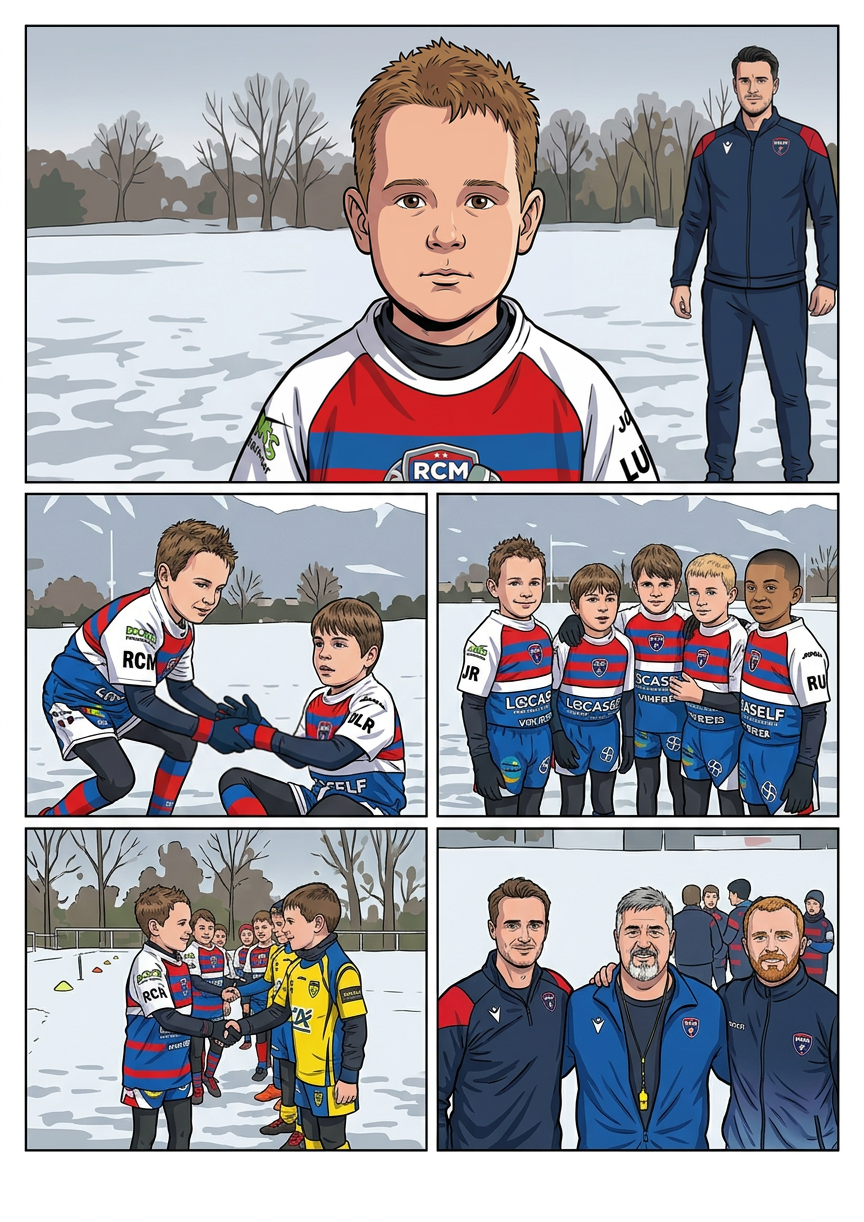
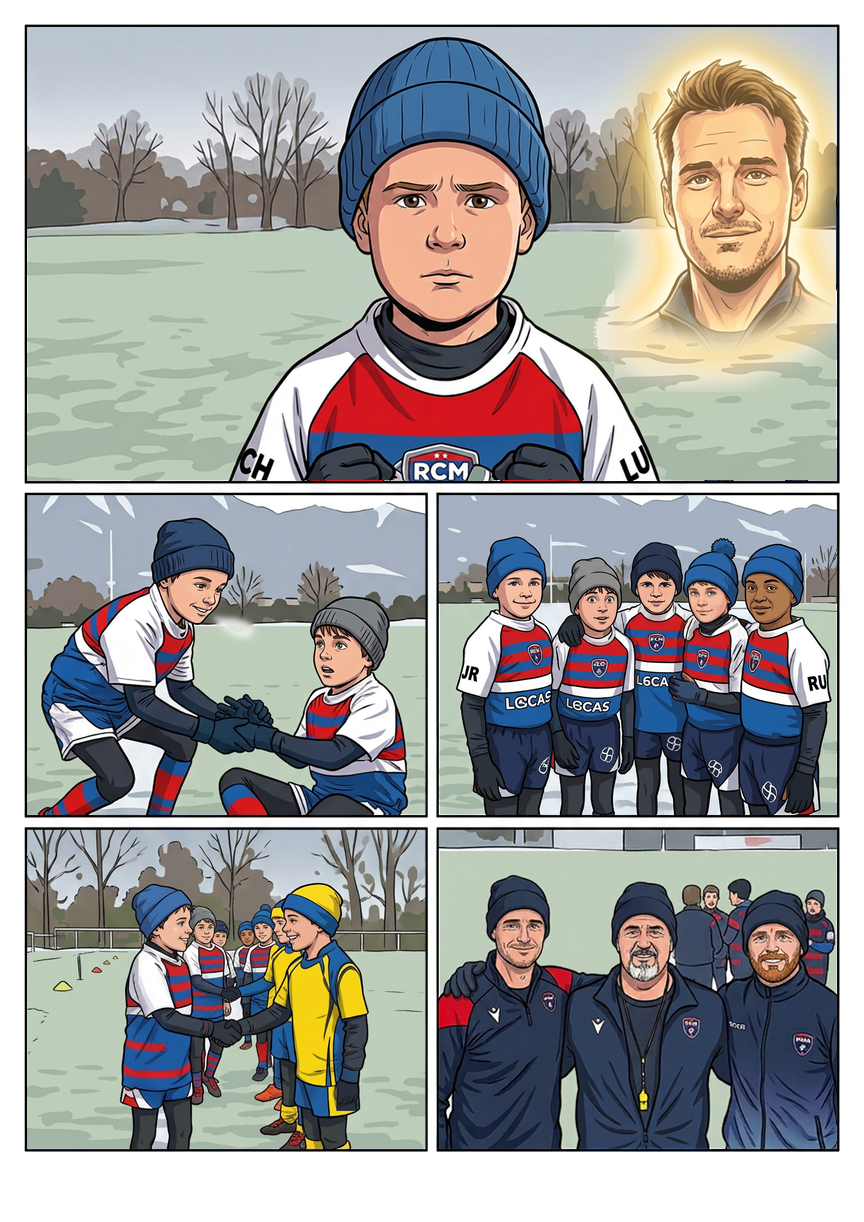
Reprendre les cinq cases de réconciliation de la planche 21

diff --git a/Planches-dessin/validation/REVUE-COUVERTURE.md b/Planches-dessin/validation/REVUE-COUVERTURE.md
@@ -21,13 +21,13 @@ Les huit recadrages exacts sont dans `revue-couverture/<Prénom>-couverture.png`
 |---|---:|
 | Planches vues en ensemble | 30 |
 | Vignettes réellement inventoriées | 153 |
-| Premières reprises intégrées, encore à relire | 105 |
+| Premières reprises intégrées, encore à relire | 110 |
 | Corrections seulement partielles, à poursuivre | 0 |
 | Contrôles sans retouche, encore à relire | 1 |
-| Autres vignettes restant à contrôler individuellement | 47 |
+| Autres vignettes restant à contrôler individuellement | 42 |
 | Validations définitives de style et ressemblance | **0** |
 
-Les 105 vignettes ayant reçu une intervention ne sont pas 105 vignettes définitivement conformes. Le reste de la revue demandée n’est pas terminé. Le manifeste `REVUE-COUVERTURE.json` conserve une entrée et un état explicite pour chacune des 153 vignettes.
+Les 110 vignettes ayant reçu une intervention ne sont pas 110 vignettes définitivement conformes. Le reste de la revue demandée n’est pas terminé. Le manifeste `REVUE-COUVERTURE.json` conserve une entrée et un état explicite pour chacune des 153 vignettes.
 
 ## Première livraison : 26/3 et 26/6
 
@@ -406,6 +406,28 @@ Preuves : `revue-couverture/lot-x/20-AVANT-APRES.jpg`, cinq masques des intérie
 **Réserves de relecture transversale (aucune validation définitive) :** âge et proportions des enfants sous bonnets, teintes des ombres sur Nolann, noir des thermiques et formes des gants, densité de tricot variable des bonnets ; motif exact des maillots/sponsors/écussons à harmoniser graphiquement sur la couverture (notamment les petites lettres variables et les modèles de bandes en 19–20). Vérifier les contacts tête/bras/jambes des deux plaquages de 20/1 et du défenseur largement masqué en 20/4, ainsi que les articulations et la lecture spatiale des lignes entre les deux matchs. La touche ajoutée en 20/1 est un marqueur de terrain, pas une mesure dessinée certifiant les 30 m × 20 m. Ni score, ni chronomètre, ni distances exactes de trois mètres ne sont attestés par le dessin seul.
 
 **Bilan courant : 105 premières reprises, 0 correction partielle, 1 contrôle sans retouche, 47 vignettes encore à examiner individuellement, 0 validation définitive sur 153. Prochaine planche : 21.** Aucun dialogue, encadré score, bulle ou onomatopée ajouté. La phase de textes attend la validation graphique individuelle puis transversale complète.
+
+## Vingt-troisième livraison : les cinq cases de la planche 21
+
+Cinq scénarios et cinq recadrages réalistes comparés ; modèle unique de dessin et d'identité : la couverture, pas les visages génériques des sources. L'instant d'hésitation de Léon, le relevage de Milo, la surprise/soulagement, les félicitations et le geste des coachs restent distincts. Les visages ne sont pas uniformisés en cinq sourires identiques.
+
+**21/1 :** Léon au centre, sous bonnet bleu, sourcils froncés et deux poings gantés visibles au bas du cadre. Visage rapproché de la couverture en conservant la tension momentanée, pas un sourire prématuré. Le Flavien physiquement debout à droite de la source est remplacé par une évocation de son visage bienveillant/épaules, auréolée de lumière dorée et sans corps sur le terrain : il s'agit du souvenir mental demandé au scénario. Aucun mot gravé ni texte de pensée ajouté à ce stade.
+
+**21/2 :** Léon bleu à gauche sourit en aidant Milo gris, assis à droite, surpris et rassuré. Le geste de relevage à deux prises gantées est gardé, à relire pour la séparation exacte des doigts et l'attache des quatre mains. Bonnets, cols et couches d'hiver noirs/bleus/blancs repris. La bouffée de buée du candidat avait un contour de petit nuage de BD : contour retiré et remplacé par une vapeur blanche diffuse sans queue, contour ni texte, pas une bulle de dialogue.
+
+**21/3 :** Cinq garçons de gauche à droite : Léon bleu, Milo gris, Lyssandro marine, Ayden bleu à pompon, Nolann bleu. Milo montre la surprise puis le soulagement. Les deux premiers candidats donnaient à Ayden une carnation mate proche de Nolann : ces visages sont rejetés. Un portrait isolé d'Ayden, basé en priorité sur son propre modèle de couverture, est détouré et recalé sur le quatrième garçon. Nolann à droite garde son teint mat. Gants repris sur la main d'Ayden au torse de son ami et sur la main basse de Nolann ; les positions et contacts d'épaules sont conservés.
+
+**21/4 :** Léon bleu au premier plan félicite le capitaine Thonon jaune/bleu ; quatre partenaires RCM derrière identifiés sous bonnets gris/marine/bleu/bleu à pompon, dont Nolann mat. Les équipes et les cinq RCM restent distincts ; les regards/sourires et la file de félicitations sont conservés. Gants assombris localement sur les contacts et quelques mains initialement nues du candidat, notamment le capitaine. Pas d'onomatopée ni texte de félicitations ajouté.
+
+**21/5 :** Flavien brun/légèrement barbu à gauche, Julien moustache/bouc gris au centre, Kilian barbe rousse à droite, tous sous bonnets foncés. Le premier candidat ajoutait deux mains sur les épaules de Julien, geste non conforme : rejeté pour les mains et le manteau bleu vif. Second candidat : un seul gant visible, rattaché au bras de Julien passant derrière Flavien et posé sur l'épaule de Flavien ; manteau de Julien ramené au marine, sifflet jaune gardé. Sourires fiers rapprochés des références, pas de larmes ni texte ajoutés. Lisibilité de l'attache du bras derrière le corps à revoir transversalement.
+
+**Continuité du terrain avec 20 :** la planche originale traitait toute la pelouse comme un manteau neigeux blanc ; les sources réalistes et la scène précédente montrent un terrain gelé. Palette du sol ramenée localement au vert grisé givré, en gardant les ombres/taches de givre et les blancs des vêtements. Le traitement est limité aux composantes de fond, avec sélection explicite des poches de fond entre les acteurs et raccord adouci autour de l'évocation lumineuse de Flavien. Les corps, contacts et tenues ne sont pas globalement teints en vert.
+
+Preuves : `revue-couverture/lot-y/21-AVANT-APRES.jpg` et cinq masques des intérieurs de cases. Cadrages et proportions relus dans la planche montée, cadres/gouttières hors masques préservés. Le portrait isolé d'Ayden n'autorise pas à éclaircir Nolann à sa droite ; sa carnation reste mate.
+
+**Réserves de relecture transversale :** ressemblance et âge sous les bonnets, silhouettes des cinq modèles dans les plans moyens, cohérence des bandes de maillot et des sponsors/écussons aux petites lettres variables ; anatomie des deux prises de relevage (quatre mains), des poignées de main et du bras de Julien occulté derrière Flavien ; finesse du fondu lumineux mental par rapport à l'encrage des autres cases. La buée est atmosphérique, pas un emplacement de dialogue. Les inscriptions internes aux maillots restent un chantier graphique d'harmonisation, pas une validation du lettrage généré.
+
+**Bilan courant : 110 premières reprises, 0 correction partielle, 1 contrôle sans retouche, 42 vignettes encore à examiner individuellement ; 0 validation définitive sur 153. Prochaine planche : 22.** Aucun mot de pensée, bulle, dialogue, onomatopée ou encadré ajouté ; la dernière phase de textes reste différée jusqu'à la validation graphique individuelle et transversale complète.
 
 ## Contrôles techniques et audits historiques
 

diff --git a/Planches-dessin/SUIVI-STYLE.md b/Planches-dessin/SUIVI-STYLE.md
@@ -2,7 +2,7 @@
 
 **La couverture `00-couverture-marvel.png` est désormais la seule référence de style et d’identité.** La décision utilisateur remplace la priorité V2 décrite dans l’historique ci-dessous. La couverture reste inchangée.
 
-Suivi actuel : [`validation/REVUE-COUVERTURE.md`](validation/REVUE-COUVERTURE.md) et son manifeste JSON : 153 vignettes inventoriées, 105 premières reprises, 1 contrôle sans retouche, 0 correction partielle, 47 autres contrôles individuels à faire, aucune validation définitive. Les anciennes approbations ne valent pas conformité au nouveau référentiel. La prise de 18/4 est reprise au lot U ; les raccords de 19/1 sont nettoyés au lot W, puis les cinq cases de 20 reprises au lot X. Prochaine planche : 21. Réserves transversales sur contacts de plaquage, âge/traits sous bonnets et conformité des motifs/écussons/sponsors des tenues. Aucune bulle ni texte de dialogue ajouté.
+Suivi actuel : [`validation/REVUE-COUVERTURE.md`](validation/REVUE-COUVERTURE.md) et son manifeste JSON : 153 vignettes inventoriées, 110 premières reprises, 1 contrôle sans retouche, 0 correction partielle, 42 autres contrôles individuels à faire, aucune validation définitive. Les anciennes approbations ne valent pas conformité au nouveau référentiel. La prise de 18/4 est reprise au lot U ; les raccords de 19/1 sont nettoyés au lot W, puis les cinq cases de 20 reprises au lot X. Planche 21 reprise au lot Y : souvenir mental de Flavien, gestes de réconciliation, visage clair d’Ayden isolé pour éviter sa confusion avec Nolann mat, et geste de Julien sur l’épaule de Flavien. Prochaine planche : 22. Réserves transversales sur contacts de plaquage, âge/traits sous bonnets et conformité des motifs/écussons/sponsors des tenues. Aucune bulle ni texte de dialogue ajouté.
 
 ---
 
